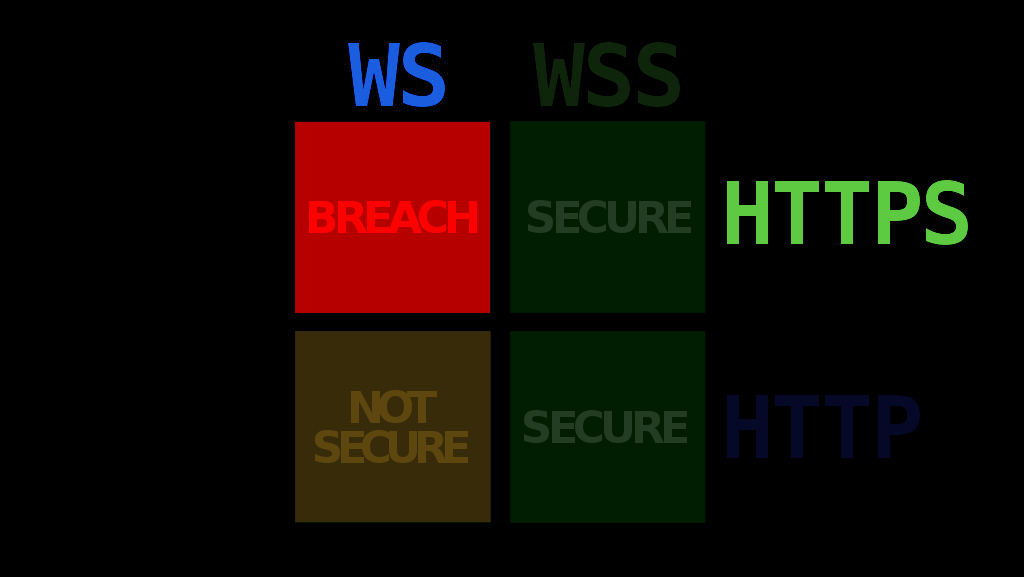
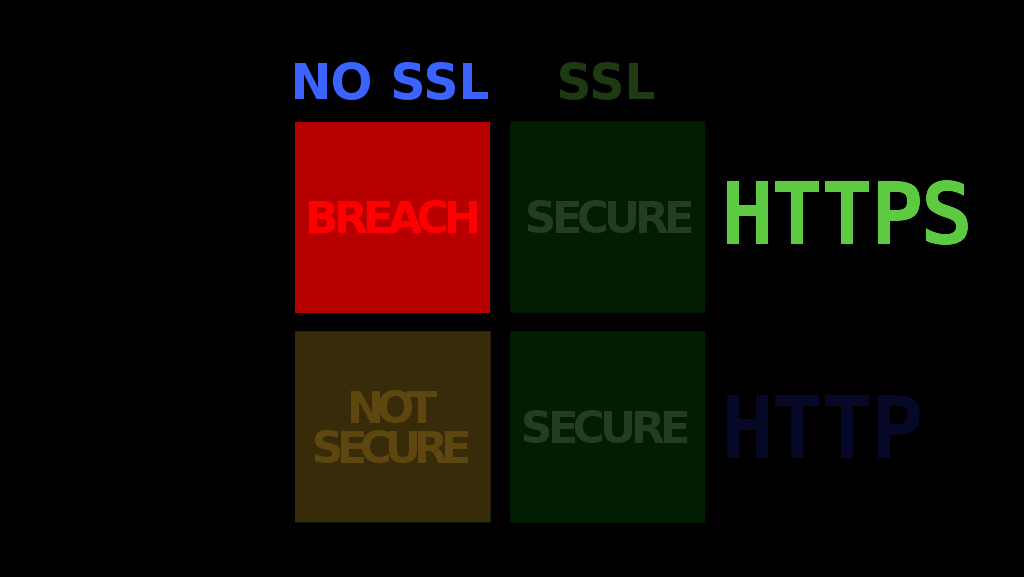
push

Changed region(s): [[0.5, 0.0624, 0.6875, 0.1872], [0.2812, 0.0624, 0.4688, 0.1872]]

diff --git a/breach/yui/js/thebreach-min.js b/breach/yui/js/thebreach-min.js
@@ -1,1 +1,1 @@
[2 lines of base64/hex data omitted]

diff --git a/breach/index.html b/breach/index.html
@@ -21,8 +21,8 @@
 		<span>  The Breach</span>
 		</div>
 		<div id="inputs">
-			<input name  = "websocket"     id = "websocket"  type = "text" >
-			<input class = "breach_button" id = "ws_wss"     type = button value = "WS">
+			<input name  = "url"           id = "url"        type = "text" >
+			<input class = "breach_button" id = "ssl_nossl"  type = button value = "WS">
 			<input class = "breach_button" id = "open_close" type = button value = "OPEN">
 			<input class = "breach_button" id = "reset"      type = button value = "RESET">
 			<input class = "breach_button" id = "send"       type = button value = "SEND">

diff --git a/breach/css/view.css b/breach/css/view.css
@@ -86,7 +86,7 @@ body {
 	display: inline-block;
 }
 
-#websocket {
+#url {
 	font-size: 50px !important;
 	font-family: roboto !important;
 	padding: 0px 40px;
@@ -120,7 +120,7 @@ body {
 	width: 260px;
 }
 
-#ws_wss {
+#ssl_nossl {
 	color: white;
 }
 
